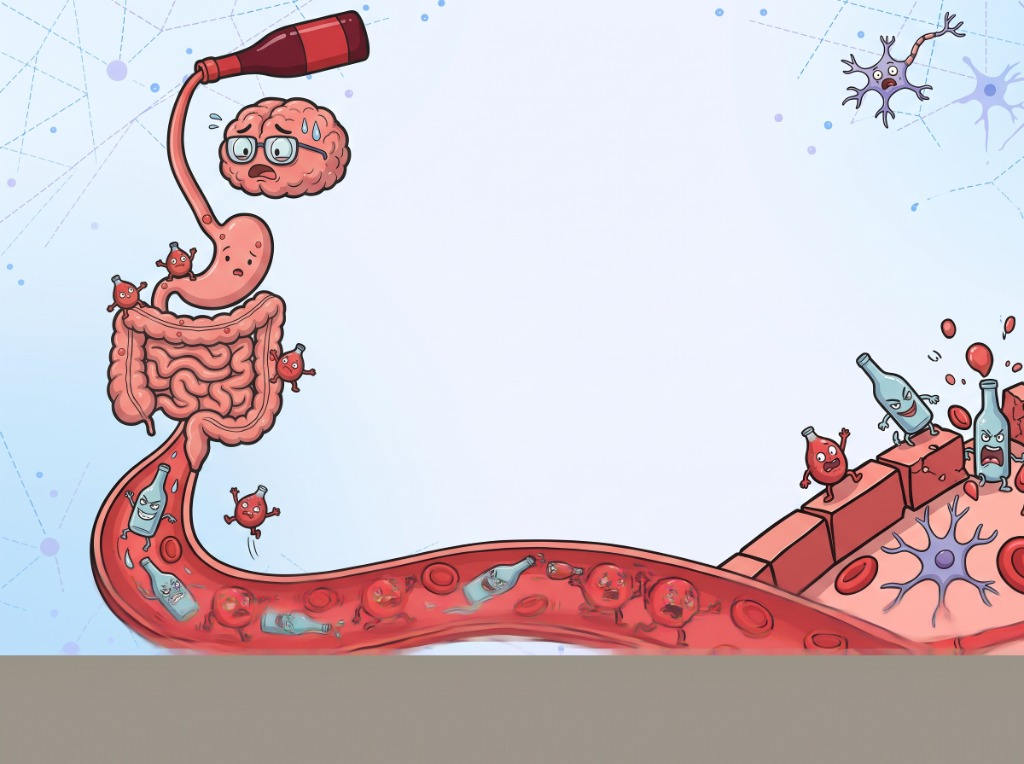
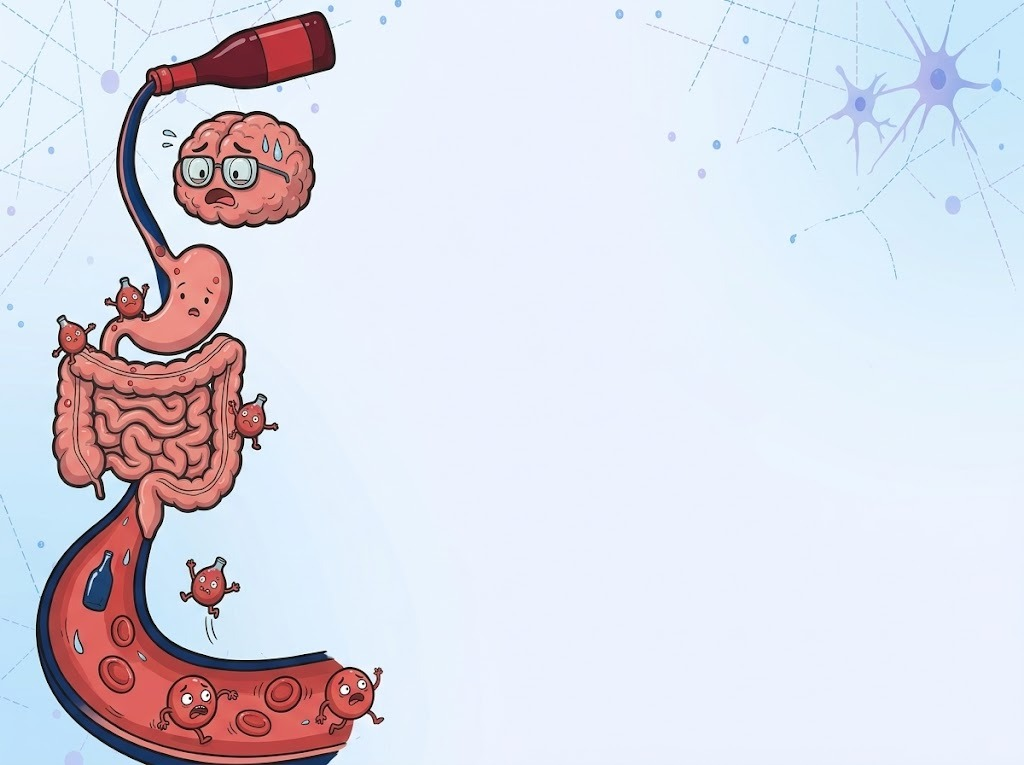
feat: update sec1 bg to new lighter illustration + light mode text
- Replace ethanol_journey_bg.jpg with cleaner cropped version
- Overlay nearly transparent (rgba 8%) to preserve bright colors
- Dark navy text overrides for titles, badges, subtitle on sec1 slides

diff --git a/index.html b/index.html
@@ -300,7 +300,14 @@
     #slide-home { padding:56px 60px;overflow:hidden; }
     /* Override slide background to dark navy */
     #slide-home::before { background:radial-gradient(ellipse 70% 60% at 25% 55%,rgba(0,150,255,.12) 0%,transparent 60%),radial-gradient(ellipse 50% 50% at 80% 25%,rgba(0,212,255,.07) 0%,transparent 55%),linear-gradient(135deg,#03080f 0%,#060e1c 50%,#080f22 100%) !important; }
-    #slide-sec1a::before, #slide-sec1b::before { background: linear-gradient(rgba(4,8,24,.62), rgba(4,8,24,.62)), url('images/ethanol_journey_bg.jpg') center/cover no-repeat !important; }
+    #slide-sec1a::before, #slide-sec1b::before { background: linear-gradient(rgba(255,255,255,.08), rgba(255,255,255,.08)), url('images/ethanol_journey_bg.jpg') center/cover no-repeat !important; }
+    #slide-sec1a .section-title, #slide-sec1b .section-title { color:#0f1f3d !important; text-shadow:none; }
+    #slide-sec1a .section-title span, #slide-sec1b .section-title span { color:#0f1f3d !important; -webkit-text-fill-color:#0f1f3d !important; }
+    #slide-sec1a .badge, #slide-sec1b .badge { background:rgba(0,100,200,.12); color:#1a3a7a; border:1px solid rgba(0,100,200,.3); }
+    #slide-sec1a .chapter-number, #slide-sec1b .chapter-number { color:rgba(15,31,61,.18); -webkit-text-stroke:2px rgba(15,31,61,.25); }
+    #slide-sec1a .sub, #slide-sec1b .sub { color:#2a4070; }
+    #slide-sec1a .divider, #slide-sec1b .divider { background:linear-gradient(90deg,#3d7af5,#0ea5e9); }
+    #slide-sec1a .dot-pulse, #slide-sec1b .dot-pulse { background:#3d7af5; box-shadow:0 0 6px #3d7af5; }
     .home-content { display:grid;grid-template-columns:1fr 1fr;gap:44px;width:100%;max-width:1140px;align-items:center;position:relative;z-index:1; }
     .home-left { display:flex;flex-direction:column; }
     .home-badge { display:inline-flex;align-items:center;gap:10px;background:rgba(0,190,235,.35);border:1px solid rgba(0,212,255,.65);border-radius:10px;padding:9px 20px;font-size:13px;font-weight:600;font-style:italic;color:#ffffff;letter-spacing:.01em;margin-bottom:20px;width:fit-content;font-family:'Be Vietnam Pro',sans-serif;line-height:1.4;text-shadow:0 0 10px rgba(0,212,255,.3);box-shadow:0 0 18px rgba(0,212,255,.15); }
